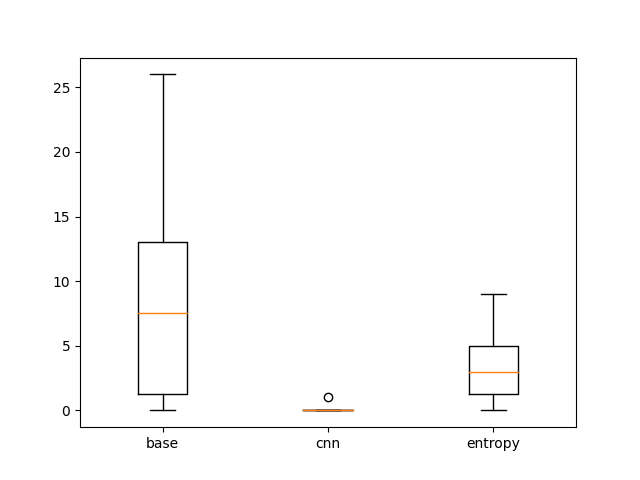
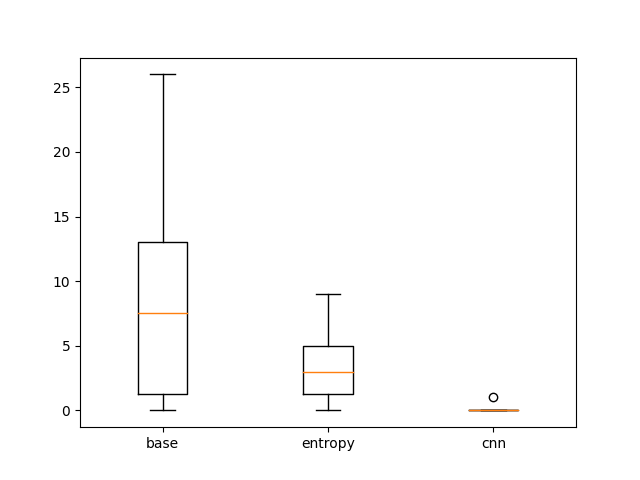
feat: different order of boxplots

diff --git a/evaluation/agent_evaluation.py b/evaluation/agent_evaluation.py
@@ -7,5 +7,5 @@ if __name__ == "__main__":
     cnn = load_series(f"{directory}/{CNN}.csv")
     entropy = load_series(f"{directory}/{ENTROPY}.csv")
 
-    dictionary = {"base": base, "cnn": cnn, "entropy": entropy}
+    dictionary = {"base": base, "entropy": entropy, "cnn": cnn}
     compare_boxplot(dictionary, save=True, path="boxplot.png")
